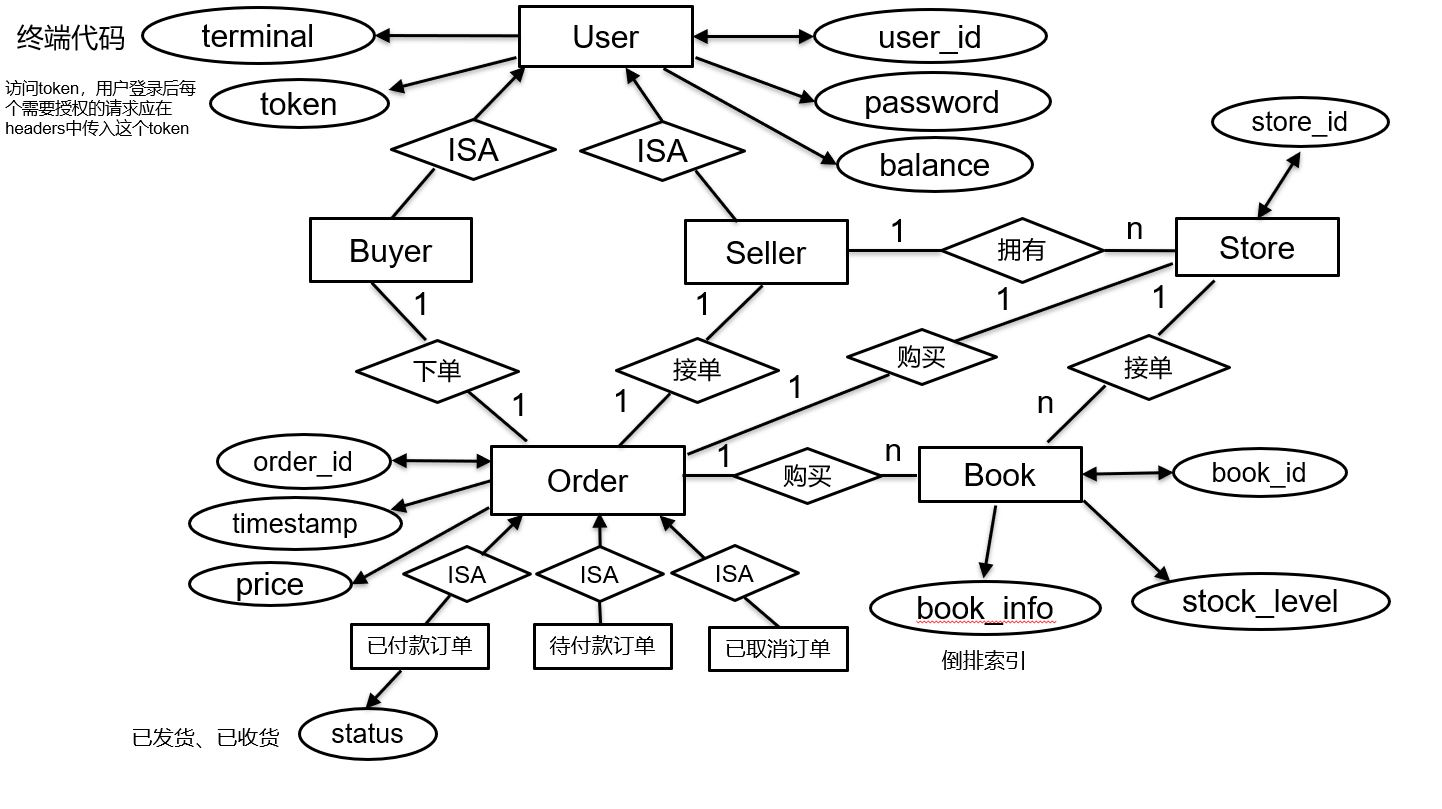
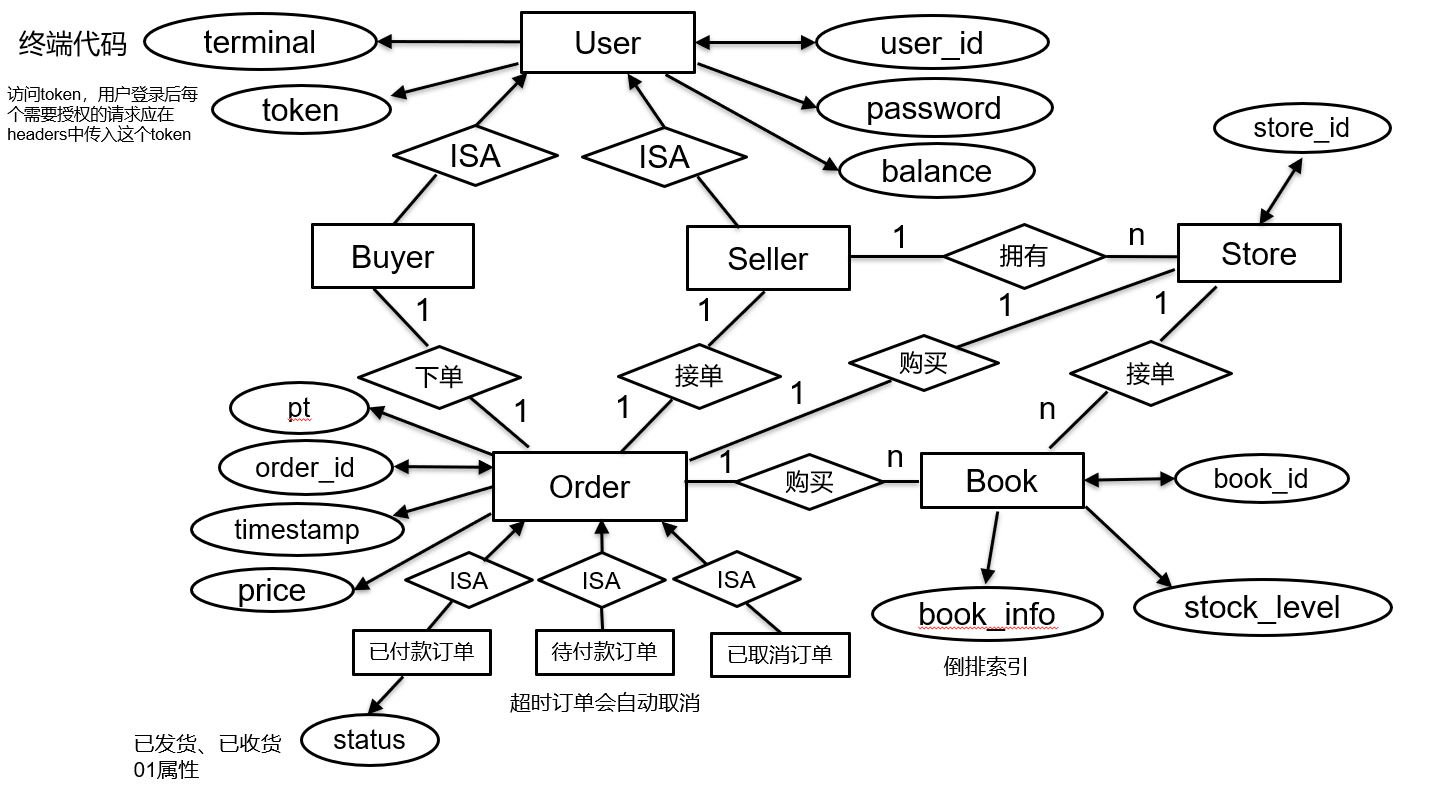
设计更改

Changed region(s): [[0.0, 0.0, 0.9674, 0.9639], [0.7178, 0.0311, 0.749, 0.0622]]

diff --git a/initialize_database/initialize_database.py b/initialize_database/initialize_database.py
@@ -1,12 +1,17 @@
 from sqlalchemy import create_engine
 from sqlalchemy.ext.declarative import declarative_base
-from sqlalchemy import Column, String, Integer, ForeignKey, create_engine, PrimaryKeyConstraint,Text,TIMESTAMP
+from sqlalchemy import Column, String, Integer, ForeignKey, create_engine, PrimaryKeyConstraint, Text, DateTime, Boolean
 from sqlalchemy.orm import sessionmaker
+
 import psycopg2
+from datetime import datetime,time
 # 连接数据库legend 记得修改这个！！！
-engine = create_engine('postgresql://postgres:amyamy@localhost:5433/bookstore')
+engine = create_engine(
+    'postgresql://postgres:990814@[2001:da8:8005:4056:81e9:7f6c:6d05:fe47]:5432/Bookstore'
+)
 
 Base = declarative_base()
+
 # String长度可能需要做修改
 # 用户表
 class User(Base):
@@ -14,8 +19,9 @@ class User(Base):
     user_id = Column(String(64), primary_key=True)
     password = Column(String(64), nullable=False)
     balance = Column(Integer, nullable=False)
-    token = Column(String(400))
+    token = Column(String(512))
     terminal = Column(String(64))
+
 
 # 商店表（含书本信息）
 class Store(Base):
@@ -30,6 +36,7 @@ class Store(Base):
         {},
     )
 
+
 # 用户商店关系表
 class User_store(Base):
     __tablename__ = 'user_store'
@@ -40,6 +47,7 @@ class User_store(Base):
         {},
     )
 
+
 # 未付款订单
 class New_order_pend(Base):
     __tablename__ = 'new_order_pend'
@@ -47,7 +55,8 @@ class New_order_pend(Base):
     buyer_id = Column(String(64), ForeignKey('usr.user_id'), nullable=False)
     seller_id = Column(String(64), ForeignKey('usr.user_id'), nullable=False)
     price = Column(Integer, nullable=False)
-    pt=Column(TIMESTAMP, nullable=False)
+    pt = Column(DateTime, nullable=False)
+
 
 # 已取消订单
 class New_order_cancel(Base):
@@ -56,6 +65,7 @@ class New_order_cancel(Base):
     buyer_id = Column(String(64), ForeignKey('usr.user_id'), nullable=False)
     seller_id = Column(String(64), ForeignKey('usr.user_id'), nullable=False)
     price = Column(Integer, nullable=False)
+    pt = Column(DateTime, nullable=False)
 
 # 已付款订单
 class New_order_paid(Base):
@@ -64,7 +74,9 @@ class New_order_paid(Base):
     buyer_id = Column(String(64), ForeignKey('usr.user_id'), nullable=False)
     seller_id = Column(String(64), ForeignKey('usr.user_id'), nullable=False)
     price = Column(Integer, nullable=False)
-    status = Column(String(32), nullable=False)
+    pt = Column(DateTime, nullable=False)
+    status = Column(Boolean, nullable=False) # 0为已发货，1为已收获
+
 
 # 订单中的书本信息
 class New_order_detail(Base):
@@ -92,43 +104,53 @@ def add_info():
     DBSession = sessionmaker(bind=engine)
     session = DBSession()
     # 提交即保存到数据库A
-    A = User(user_id = 'A',
+    A = User(user_id = '王掌柜',
             password = '123456',
             balance = 100,
-            token = 'AAA',
-            terminal = 'AAA')
-    B = User(user_id = 'B',
+            token = '***',
+            terminal = 'Edge')
+    B = User(user_id = '小明',
             password = '123456',
             balance = 500,
-            token = 'BBB',
-            terminal='BBB')
-    StoreA = Store(store_id = 'StoreA',
-                    book_id = 'BookA',
-                    book_info='A nice book.',
+            token = '***',
+            terminal='Chrome')
+    StoreA = Store(store_id = '王掌柜的书店',
+                    book_id = '数据结构',
+                    book_info='本科生必修',
                     stock_level=10,
-                    price=10)
-    StoreB = Store(store_id = 'StoreB',
-                    book_id = 'BookA',
-                    book_info='A nice book.',
+                    price=1000) # 价格单位是分
+    StoreB = Store(store_id = '王掌柜的进口书店',
+                    book_id = 'PRML',
+                    book_info='机器学习必读书本',
                     stock_level=10,
-                    price=10)
-    session.add_all([A, B ,StoreA])
+                    price=10000)
+    session.add_all([A, B, StoreA, StoreB])
     session.commit()
-    A_Store1 = User_store(user_id = 'A',
-                        store_id = 'StoreA')
-    A_Store2 = User_store(user_id = 'A',
-                        store_id = 'StoreB')
+    A_Store1 = User_store(user_id = '王掌柜',
+                        store_id = '王掌柜的书店')
+    A_Store2 = User_store(user_id = '王掌柜',
+                        store_id = '王掌柜的进口书店')
     OrderA = New_order_paid(order_id = 'order1',
-                            buyer_id = 'B',
-                            seller_id = 'A',
-                            price = 20,
-                            status = 'Already evaluated')  # 或者Send goods 或者Received goods
+                            buyer_id = '小明',
+                            seller_id = '王掌柜',
+                            price=2000,
+                            pt = datetime.now(),
+                            status = 0)  # 0为已发货，1为已收获
     Order_detailA = New_order_detail(order_id = 'order1',
-                                    book_id = 'BookA',
+                                    book_id = '数据结构',
                                     count = 2,
-                                    price = 20)
+                                    price = 2000)
+    OrderB = New_order_pend(order_id = 'order2',
+                            buyer_id = '小明',
+                            seller_id = '王掌柜',
+                            price = 10000,
+                            pt = datetime.now())
+    Order_detailB = New_order_detail(order_id = 'order2',
+                                    book_id = 'PRML',
+                                    count = 1,
+                                    price = 10000)
     session.add_all([
-        A_Store1, A_Store2, OrderA, Order_detailA
+        A_Store1, A_Store2, OrderA, Order_detailA, OrderB, Order_detailB
     ])
     session.commit()
     # 关闭session
@@ -138,4 +160,4 @@ if __name__ == "__main__":
     # 创建数据库
     init()
     # 加入信息
-    #add_info()
+    add_info()
